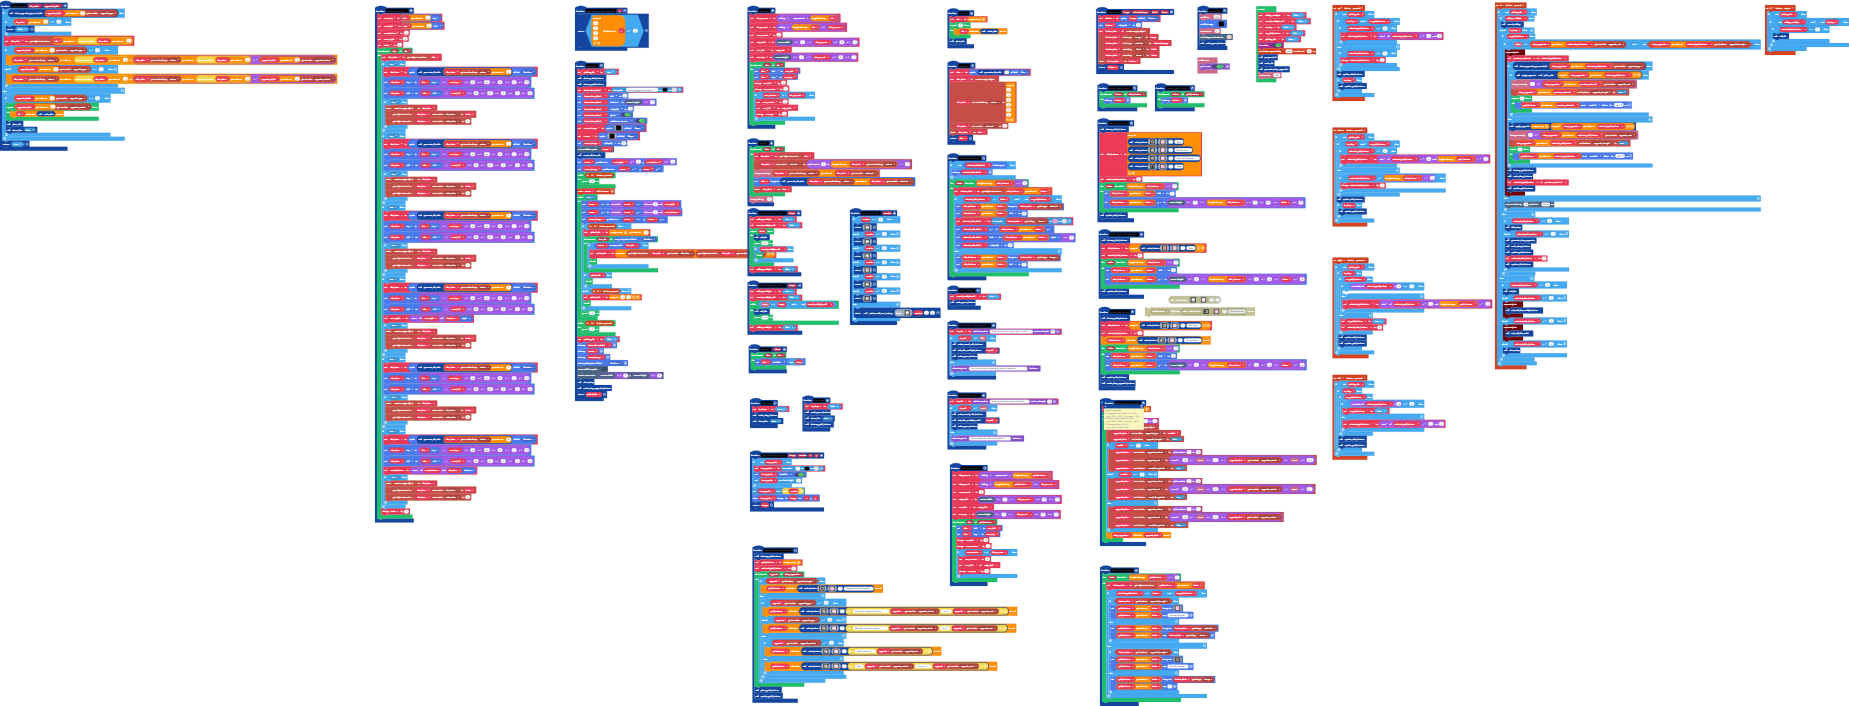
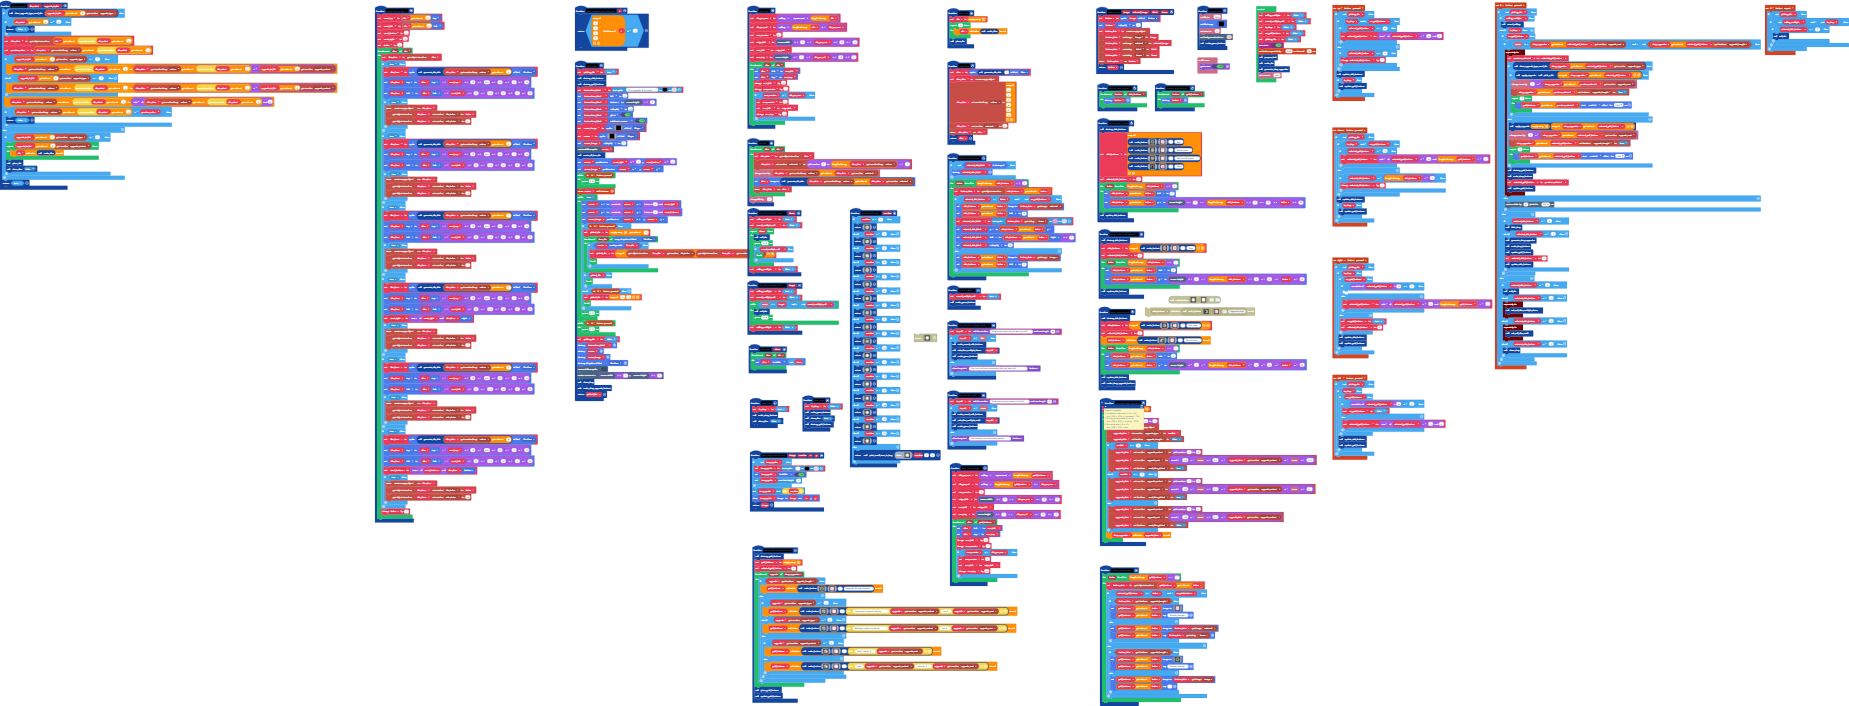
Restrict die value to 99

Changed region(s): [[0.0, 0.0623, 0.185, 0.2805], [0.4624, 0.4051, 0.5241, 0.6856]]

diff --git a/images.g.ts b/images.g.ts
@@ -646,6 +646,196 @@ f 1 1 1 1 1 1 1 1 1 1 1 1 1 1 f
 f f 
 f f 
 `;
+            case "image36":
+            case "die_side_7":return img`
+. . f f f f f f f f f f f f . . 
+. f 1 1 1 1 1 1 1 1 1 1 1 1 f . 
+f 1 1 1 1 1 1 1 1 1 1 1 1 1 1 f 
+f 1 1 f f 1 1 1 1 1 1 f f 1 1 f 
+f 1 1 f f 1 1 1 1 1 1 f f 1 1 f 
+f 1 1 1 1 1 1 1 1 1 1 1 1 1 1 f 
+f 1 1 1 1 1 1 1 1 1 1 1 1 1 1 f 
+f 1 1 f f 1 1 f f 1 1 f f 1 1 f 
+f 1 1 f f 1 1 f f 1 1 f f 1 1 f 
+f 1 1 1 1 1 1 1 1 1 1 1 1 1 1 f 
+f 1 1 1 1 1 1 1 1 1 1 1 1 1 1 f 
+f 1 1 f f 1 1 1 1 1 1 f f 1 1 f 
+f 1 1 f f 1 1 1 1 1 1 f f 1 1 f 
+f 1 1 1 1 1 1 1 1 1 1 1 1 1 1 f 
+. f 1 1 1 1 1 1 1 1 1 1 1 1 f . 
+. . f f f f f f f f f f f f . . 
+`;
+            case "image37":
+            case "die_side_8":return img`
+. . f f f f f f f f f f f f . . 
+. f 1 1 1 1 1 1 1 1 1 1 1 1 f . 
+f 1 1 1 1 1 1 1 1 1 1 1 1 1 1 f 
+f 1 1 f f 1 1 f f 1 1 f f 1 1 f 
+f 1 1 f f 1 1 f f 1 1 f f 1 1 f 
+f 1 1 1 1 1 1 1 1 1 1 1 1 1 1 f 
+f 1 1 1 1 1 1 1 1 1 1 1 1 1 1 f 
+f 1 1 f f 1 1 1 1 1 1 f f 1 1 f 
+f 1 1 f f 1 1 1 1 1 1 f f 1 1 f 
+f 1 1 1 1 1 1 1 1 1 1 1 1 1 1 f 
+f 1 1 1 1 1 1 1 1 1 1 1 1 1 1 f 
+f 1 1 f f 1 1 f f 1 1 f f 1 1 f 
+f 1 1 f f 1 1 f f 1 1 f f 1 1 f 
+f 1 1 1 1 1 1 1 1 1 1 1 1 1 1 f 
+. f 1 1 1 1 1 1 1 1 1 1 1 1 f . 
+. . f f f f f f f f f f f f . . 
+`;
+            case "image38":
+            case "die_side_9":return img`
+. . f f f f f f f f f f f f . . 
+. f 1 1 1 1 1 1 1 1 1 1 1 1 f . 
+f 1 1 1 1 1 1 1 1 1 1 1 1 1 1 f 
+f 1 1 f f 1 1 f f 1 1 f f 1 1 f 
+f 1 1 f f 1 1 f f 1 1 f f 1 1 f 
+f 1 1 1 1 1 1 1 1 1 1 1 1 1 1 f 
+f 1 1 1 1 1 1 1 1 1 1 1 1 1 1 f 
+f 1 1 f f 1 1 f f 1 1 f f 1 1 f 
+f 1 1 f f 1 1 f f 1 1 f f 1 1 f 
+f 1 1 1 1 1 1 1 1 1 1 1 1 1 1 f 
+f 1 1 1 1 1 1 1 1 1 1 1 1 1 1 f 
+f 1 1 f f 1 1 f f 1 1 f f 1 1 f 
+f 1 1 f f 1 1 f f 1 1 f f 1 1 f 
+f 1 1 1 1 1 1 1 1 1 1 1 1 1 1 f 
+. f 1 1 1 1 1 1 1 1 1 1 1 1 f . 
+. . f f f f f f f f f f f f . . 
+`;
+            case "image39":
+            case "die_side_10":return img`
+. . f f f f f f f f f f f f . . 
+. f 1 1 1 1 1 1 1 1 1 1 1 1 f . 
+f 1 1 1 1 1 1 1 1 1 1 1 1 1 1 f 
+f 1 1 f 1 1 f 1 1 f 1 1 f 1 1 f 
+f 1 1 1 1 1 1 1 1 1 1 1 1 1 1 f 
+f 1 1 1 1 1 1 1 1 1 1 1 1 1 1 f 
+f 1 1 f 1 1 1 1 1 1 1 1 1 1 1 f 
+f 1 1 1 1 1 1 1 1 1 1 1 1 1 1 f 
+f 1 1 1 1 1 1 1 1 1 1 1 1 1 1 f 
+f 1 1 1 1 1 1 1 1 1 1 1 f 1 1 f 
+f 1 1 1 1 1 1 1 1 1 1 1 1 1 1 f 
+f 1 1 1 1 1 1 1 1 1 1 1 1 1 1 f 
+f 1 1 f 1 1 f 1 1 f 1 1 f 1 1 f 
+f 1 1 1 1 1 1 1 1 1 1 1 1 1 1 f 
+. f 1 1 1 1 1 1 1 1 1 1 1 1 f . 
+. . f f f f f f f f f f f f . . 
+`;
+            case "image41":
+            case "die_side_12":return img`
+. . f f f f f f f f f f f f . . 
+. f 1 1 1 1 1 1 1 1 1 1 1 1 f . 
+f 1 1 1 1 1 1 1 1 1 1 1 1 1 1 f 
+f 1 1 f 1 1 f 1 1 f 1 1 f 1 1 f 
+f 1 1 1 1 1 1 1 1 1 1 1 1 1 1 f 
+f 1 1 1 1 1 1 1 1 1 1 1 1 1 1 f 
+f 1 1 f 1 1 1 1 1 1 1 1 f 1 1 f 
+f 1 1 1 1 1 1 1 1 1 1 1 1 1 1 f 
+f 1 1 1 1 1 1 1 1 1 1 1 1 1 1 f 
+f 1 1 f 1 1 1 1 1 1 1 1 f 1 1 f 
+f 1 1 1 1 1 1 1 1 1 1 1 1 1 1 f 
+f 1 1 1 1 1 1 1 1 1 1 1 1 1 1 f 
+f 1 1 f 1 1 f 1 1 f 1 1 f 1 1 f 
+f 1 1 1 1 1 1 1 1 1 1 1 1 1 1 f 
+. f 1 1 1 1 1 1 1 1 1 1 1 1 f . 
+. . f f f f f f f f f f f f . . 
+`;
+            case "image40":
+            case "die_side_11":return img`
+. . f f f f f f f f f f f f . . 
+. f 1 1 1 1 1 1 1 1 1 1 1 1 f . 
+f 1 1 1 1 1 1 1 1 1 1 1 1 1 1 f 
+f 1 1 f 1 1 f 1 1 f 1 1 f 1 1 f 
+f 1 1 1 1 1 1 1 1 1 1 1 1 1 1 f 
+f 1 1 1 1 1 1 1 1 1 1 1 1 1 1 f 
+f 1 1 f 1 1 1 1 1 1 1 1 1 1 1 f 
+f 1 1 1 1 1 1 f f 1 1 1 1 1 1 f 
+f 1 1 1 1 1 1 f f 1 1 1 1 1 1 f 
+f 1 1 1 1 1 1 1 1 1 1 1 f 1 1 f 
+f 1 1 1 1 1 1 1 1 1 1 1 1 1 1 f 
+f 1 1 1 1 1 1 1 1 1 1 1 1 1 1 f 
+f 1 1 f 1 1 f 1 1 f 1 1 f 1 1 f 
+f 1 1 1 1 1 1 1 1 1 1 1 1 1 1 f 
+. f 1 1 1 1 1 1 1 1 1 1 1 1 f . 
+. . f f f f f f f f f f f f . . 
+`;
+            case "image42":
+            case "die_side_13":return img`
+. . f f f f f f f f f f f f . . 
+. f 1 1 1 1 1 1 1 1 1 1 1 1 f . 
+f 1 1 1 1 1 1 1 1 1 1 1 1 1 1 f 
+f 1 1 f 1 1 f 1 1 f 1 1 f 1 1 f 
+f 1 1 1 1 1 1 1 1 1 1 1 1 1 1 f 
+f 1 1 1 1 1 1 1 1 1 1 1 1 1 1 f 
+f 1 1 f 1 1 1 1 1 1 1 1 f 1 1 f 
+f 1 1 1 1 1 1 f f 1 1 1 1 1 1 f 
+f 1 1 1 1 1 1 f f 1 1 1 1 1 1 f 
+f 1 1 f 1 1 1 1 1 1 1 1 f 1 1 f 
+f 1 1 1 1 1 1 1 1 1 1 1 1 1 1 f 
+f 1 1 1 1 1 1 1 1 1 1 1 1 1 1 f 
+f 1 1 f 1 1 f 1 1 f 1 1 f 1 1 f 
+f 1 1 1 1 1 1 1 1 1 1 1 1 1 1 f 
+. f 1 1 1 1 1 1 1 1 1 1 1 1 f . 
+. . f f f f f f f f f f f f . . 
+`;
+            case "image43":
+            case "die_side_14":return img`
+. . f f f f f f f f f f f f . . 
+. f 1 1 1 1 1 1 1 1 1 1 1 1 f . 
+f 1 1 1 1 1 1 1 1 1 1 1 1 1 1 f 
+f 1 1 f 1 1 f 1 1 f 1 1 f 1 1 f 
+f 1 1 1 1 1 1 1 1 1 1 1 1 1 1 f 
+f 1 1 1 1 1 1 1 1 1 1 1 1 1 1 f 
+f 1 1 f 1 1 f 1 1 1 1 1 f 1 1 f 
+f 1 1 1 1 1 1 1 1 1 1 1 1 1 1 f 
+f 1 1 1 1 1 1 1 1 1 1 1 1 1 1 f 
+f 1 1 f 1 1 1 1 1 f 1 1 f 1 1 f 
+f 1 1 1 1 1 1 1 1 1 1 1 1 1 1 f 
+f 1 1 1 1 1 1 1 1 1 1 1 1 1 1 f 
+f 1 1 f 1 1 f 1 1 f 1 1 f 1 1 f 
+f 1 1 1 1 1 1 1 1 1 1 1 1 1 1 f 
+. f 1 1 1 1 1 1 1 1 1 1 1 1 f . 
+. . f f f f f f f f f f f f . . 
+`;
+            case "image44":
+            case "die_side_15":return img`
+. . f f f f f f f f f f f f . . 
+. f 1 1 1 1 1 1 1 1 1 1 1 1 f . 
+f 1 1 1 1 1 1 1 1 1 1 1 1 1 1 f 
+f 1 1 f 1 1 f 1 1 f 1 1 f 1 1 f 
+f 1 1 1 1 1 1 1 1 1 1 1 1 1 1 f 
+f 1 1 1 1 1 1 1 1 1 1 1 1 1 1 f 
+f 1 1 f 1 1 f 1 1 1 1 1 f 1 1 f 
+f 1 1 1 1 1 1 f f 1 1 1 1 1 1 f 
+f 1 1 1 1 1 1 f f 1 1 1 1 1 1 f 
+f 1 1 f 1 1 1 1 1 f 1 1 f 1 1 f 
+f 1 1 1 1 1 1 1 1 1 1 1 1 1 1 f 
+f 1 1 1 1 1 1 1 1 1 1 1 1 1 1 f 
+f 1 1 f 1 1 f 1 1 f 1 1 f 1 1 f 
+f 1 1 1 1 1 1 1 1 1 1 1 1 1 1 f 
+. f 1 1 1 1 1 1 1 1 1 1 1 1 f . 
+. . f f f f f f f f f f f f . . 
+`;
+            case "image45":
+            case "die_side_16":return img`
+. . f f f f f f f f f f f f . . 
+. f 1 1 1 1 1 1 1 1 1 1 1 1 f . 
+f 1 1 1 1 1 1 1 1 1 1 1 1 1 1 f 
+f 1 1 f 1 1 f 1 1 f 1 1 f 1 1 f 
+f 1 1 1 1 1 1 1 1 1 1 1 1 1 1 f 
+f 1 1 1 1 1 1 1 1 1 1 1 1 1 1 f 
+f 1 1 f 1 1 f 1 1 f 1 1 f 1 1 f 
+f 1 1 1 1 1 1 1 1 1 1 1 1 1 1 f 
+f 1 1 1 1 1 1 1 1 1 1 1 1 1 1 f 
+f 1 1 f 1 1 f 1 1 f 1 1 f 1 1 f 
+f 1 1 1 1 1 1 1 1 1 1 1 1 1 1 f 
+f 1 1 1 1 1 1 1 1 1 1 1 1 1 1 f 
+f 1 1 f 1 1 f 1 1 f 1 1 f 1 1 f 
+f 1 1 1 1 1 1 1 1 1 1 1 1 1 1 f 
+. f 1 1 1 1 1 1 1 1 1 1 1 1 f . 
+. . f f f f f f f f f f f f . . 
+`;
         }
         return null;
     })

diff --git a/main.ts b/main.ts
@@ -458,6 +458,26 @@ function generate_die_side (number: number) {
         return assets.image`die_side_5`
     } else if (number == 6) {
         return assets.image`die_side_6`
+    } else if (number == 7) {
+        return assets.image`die_side_7`
+    } else if (number == 8) {
+        return assets.image`die_side_8`
+    } else if (number == 9) {
+        return assets.image`die_side_9`
+    } else if (number == 10) {
+        return assets.image`die_side_10`
+    } else if (number == 11) {
+        return assets.image`die_side_11`
+    } else if (number == 12) {
+        return assets.image`die_side_12`
+    } else if (number == 13) {
+        return assets.image`die_side_13`
+    } else if (number == 14) {
+        return assets.image`die_side_14`
+    } else if (number == 15) {
+        return assets.image`die_side_15`
+    } else if (number == 16) {
+        return assets.image`die_side_16`
     } else {
         return print_small_num_to_img(assets.image`unlabeled_die_side`.clone(), number, 3, 5)
     }
@@ -627,10 +647,15 @@ function apply_upgrade (die_select: any[], upgrade_in_list: any[]) {
             return false
         }
         dice_data = blockObject.getStoredObject(die[parseFloat(die_select[0])])
+        previous_value = blockObject.getNumberArrayProperty(dice_data, NumArrayProp.values)[parseFloat(die_select[1])]
         if (blockObject.getNumberProperty(upgrade_in_list[0], NumProp.upgrade_type) == 1) {
             blockObject.getNumberArrayProperty(dice_data, NumArrayProp.values)[parseFloat(die_select[1])] = blockObject.getNumberArrayProperty(dice_data, NumArrayProp.values)[parseFloat(die_select[1])] + blockObject.getNumberProperty(upgrade_in_list[0], NumProp.upgrade_variant)
         } else if (blockObject.getNumberProperty(upgrade_in_list[0], NumProp.upgrade_type) == 2) {
             blockObject.getNumberArrayProperty(dice_data, NumArrayProp.values)[parseFloat(die_select[1])] = blockObject.getNumberArrayProperty(dice_data, NumArrayProp.values)[parseFloat(die_select[1])] * blockObject.getNumberProperty(upgrade_in_list[0], NumProp.upgrade_variant)
+        }
+        blockObject.getNumberArrayProperty(dice_data, NumArrayProp.values)[parseFloat(die_select[1])] = Math.min(blockObject.getNumberArrayProperty(dice_data, NumArrayProp.values)[parseFloat(die_select[1])], 99)
+        if (blockObject.getNumberArrayProperty(dice_data, NumArrayProp.values)[parseFloat(die_select[1])] == previous_value) {
+            return false
         }
     } else {
         if (blockObject.getNumberProperty(upgrade_in_list[0], NumProp.upgrade_type) == 0) {
@@ -643,6 +668,7 @@ function apply_upgrade (die_select: any[], upgrade_in_list: any[]) {
     }
     return true
 }
+let previous_value = 0
 let upgrade_data: blockObject.BlockObject = null
 let randint2 = 0
 let to_roll = 0
